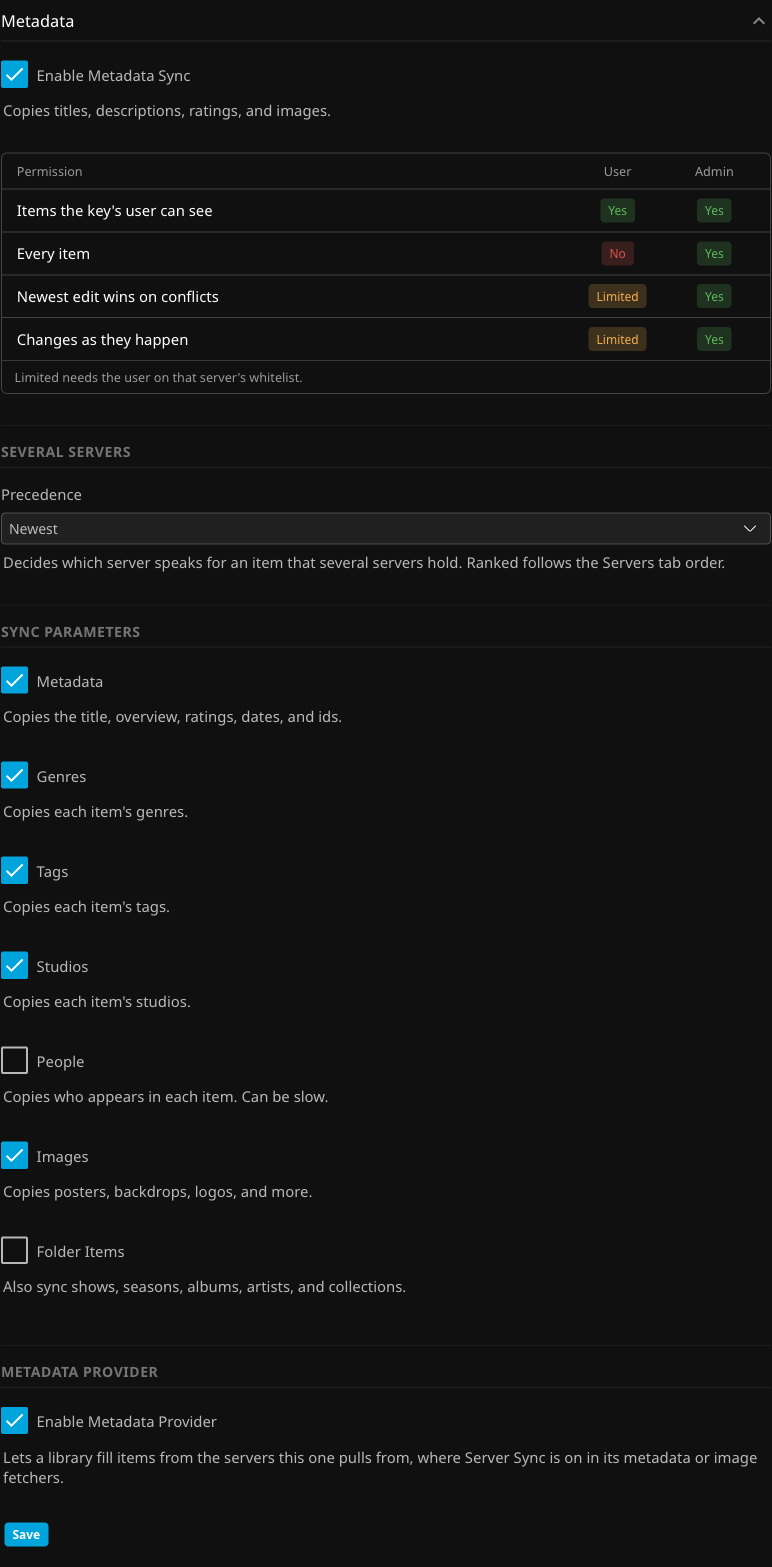
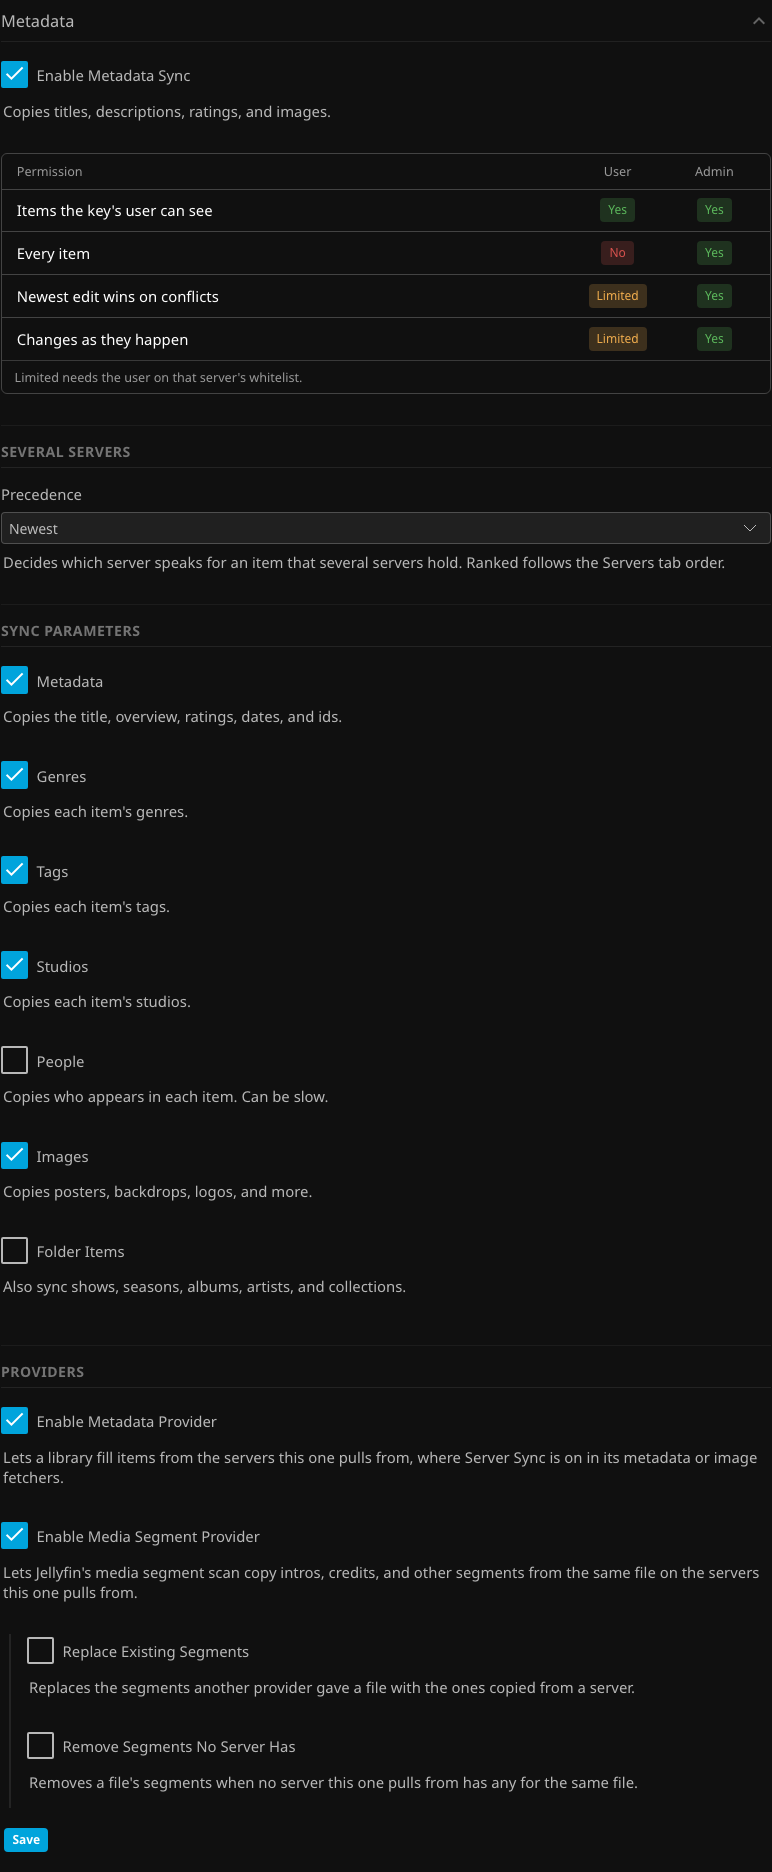
Show the Media Segment Provider settings and a row's segments in the docs

diff --git a/docs/MetadataProvider.md b/docs/MetadataProvider.md
@@ -16,7 +16,9 @@ Server Sync is also a media segment provider. It copies intros, credits, recaps,
 2. Keep **Server Sync** on in the library's media segment providers. It is on unless it was turned off there.
 3. Run **Sync Information**, then **Media Segment Scan** under **Dashboard > Scheduled Tasks**, or wait for both.
 
-Media segments are a category of each Metadata row, like images and people.
+Media segments are a category of each Metadata row, like images and people. A row's dialog lists them under **Media Segments**.
+
+![Metadata Item](screenshots/Metadata%20Item.png)
 
 * **Refresh** reads the segments of every video and audio file it lists, 200 files to a request. A file takes the segments of the highest ranked server that holds it and has segments for it. When no server has any, the row holds none.
 * **Sync** writes a row's segments into the sync database, where they survive a restart. **Queue** and **Ignore** work on them as on any category, and the row shows **Segments: Changes** until they are written.
